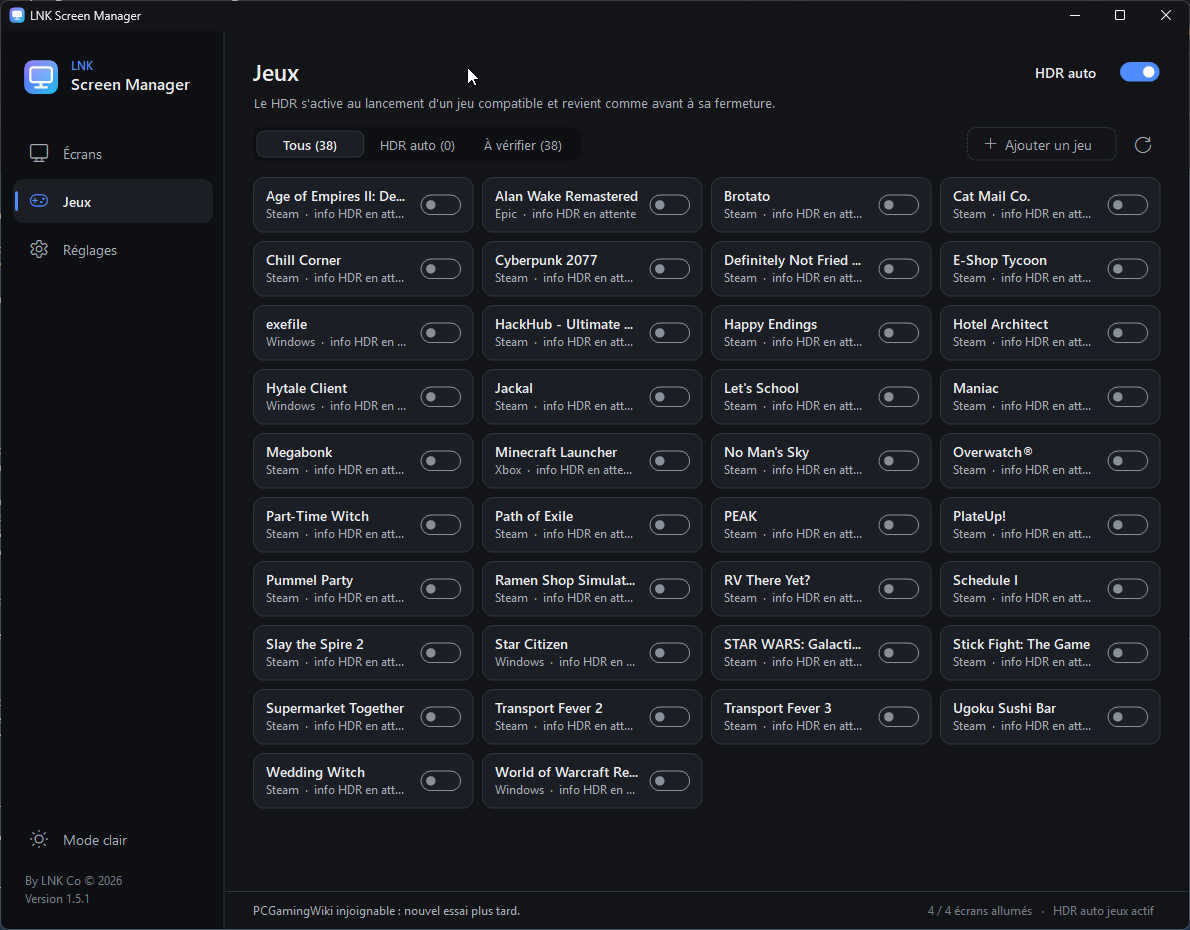
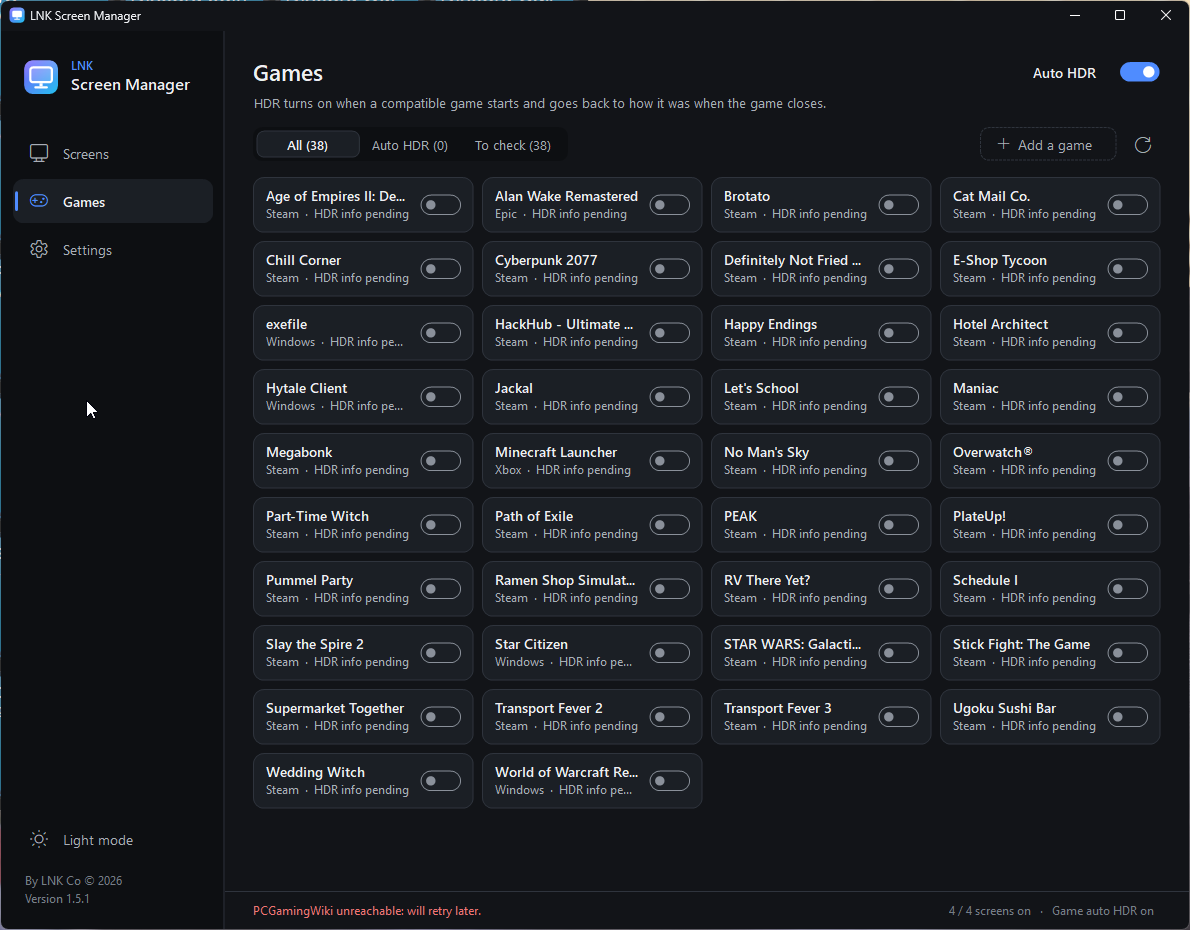
1.5.2 : jeux Xbox dans tous les dossiers choisis dans l'appli Xbox, PCGamingWiki sans blocage (429), journal de détection
- Xbox / PC Game Pass : lit le fichier .GamingRoot de chaque disque (dossier choisi dans l'appli Xbox), plus seulement X:\XboxGames
- PCGamingWiki : une requête par seconde au plus, pause et nouvel essai sur erreur 429, moins de requêtes par jeu, nouvel essai automatique 15 min après un échec
- hdr-auto.log : jeux détectés par boutique, dossiers Xbox et résultat de la recherche des infos HDR
- README : captures en anglais

diff --git a/src/Games.cs b/src/Games.cs
@@ -58,7 +58,7 @@ namespace LnkScreenManager
     {
         static readonly object sync = new object();
         static List<Game> list;
-        const string UA = "LNK-Screen-Manager/1.2 (+HDR auto)";
+        static string UA { get { return "LNK-Screen-Manager/" + Brand.Version + " (+HDR auto)"; } }
         public static string LastError;
         static string FilePath { get { return AppData.File("games.txt"); } }
 
@@ -80,6 +80,13 @@ namespace LnkScreenManager
                 Game s;
                 if (saved.TryGetValue(g.Key, out s)) { g.User = s.User; g.Wiki = s.Wiki; g.Manual = s.Manual || g.Manual; }
             }
+            try
+            {
+                HdrLog.Write(string.Format("Jeux détectés : {0} ({1}). Dossiers Xbox : {2}.", res.Count,
+                    string.Join(", ", res.GroupBy(g => g.Source).OrderByDescending(x => x.Count()).Select(x => x.Key + " " + x.Count())),
+                    string.Join(", ", XboxRoots().Where(Directory.Exists).DefaultIfEmpty("aucun"))));
+            }
+            catch { }
             return res.OrderBy(g => g.Name, StringComparer.CurrentCultureIgnoreCase).ToList();
         }
 
@@ -184,8 +191,37 @@ namespace LnkScreenManager
             catch { }
         }
 
-        /// Jeux Xbox / PC Game Pass : dossiers XboxGames de chaque disque (fichier MicrosoftGame.config).
-        public static List<Game> Xbox() { return Xbox(DriveInfo.GetDrives().Where(d => d.DriveType == DriveType.Fixed && d.IsReady).Select(d => Path.Combine(d.RootDirectory.FullName, "XboxGames"))); }
+        /// Jeux Xbox / PC Game Pass (fichier MicrosoftGame.config dans le dossier de chaque jeu).
+        public static List<Game> Xbox() { return Xbox(XboxRoots()); }
+
+        /// Dossiers de jeux Xbox. L'appli Xbox laisse le choix du dossier sur chaque disque et l'enregistre
+        /// dans le fichier cache « .GamingRoot » a la racine du disque : en-tete "RGBX", un entier, puis
+        /// les chemins (relatifs au disque) en UTF-16 termines par un zero. XboxGames est le dossier par defaut.
+        public static List<string> XboxRoots()
+        {
+            var res = new List<string>();
+            foreach (var d in DriveInfo.GetDrives())
+            {
+                try
+                {
+                    if (d.DriveType != DriveType.Fixed || !d.IsReady) continue;
+                    string root = d.RootDirectory.FullName;
+                    res.Add(Path.Combine(root, "XboxGames"));
+                    string f = Path.Combine(root, ".GamingRoot");
+                    if (!File.Exists(f)) continue;
+                    byte[] b = File.ReadAllBytes(f);
+                    if (b.Length < 10 || b.Length > 65536 || b[0] != 'R' || b[1] != 'G' || b[2] != 'B' || b[3] != 'X') continue;
+                    foreach (var part in Encoding.Unicode.GetString(b, 8, (b.Length - 8) & ~1).Split('\0'))
+                    {
+                        string rel = part.Trim();
+                        if (rel.Length == 0 || rel.IndexOfAny(Path.GetInvalidPathChars()) >= 0) continue;
+                        res.Add(Path.Combine(root, rel.TrimStart('\\', '/')));
+                    }
+                }
+                catch { }
+            }
+            return res.Distinct(StringComparer.OrdinalIgnoreCase).ToList();
+        }
 
         public static List<Game> Xbox(IEnumerable<string> roots)
         {
@@ -509,8 +545,11 @@ namespace LnkScreenManager
                 if (w == null) { offline = true; break; } // pas de reseau : on reessaiera plus tard
                 g.Wiki = w; n++;
                 Save();
-                Thread.Sleep(200);
             }
+            if (todo.Count > 0)
+                HdrLog.Write(offline
+                    ? string.Format("Infos HDR : {0} / {1} jeux consultés, puis arrêt ({2}). Nouvel essai plus tard.", n, todo.Count, LastError)
+                    : string.Format("Infos HDR : {0} jeux consultés sur PCGamingWiki.", n));
             return n;
         }
 
@@ -520,10 +559,8 @@ namespace LnkScreenManager
             try
             {
                 // 1) redirection officielle identifiant Steam -> page du jeu
-                var req = (HttpWebRequest)WebRequest.Create("https://www.pcgamingwiki.com/api/appid.php?appid=" + appId);
-                req.UserAgent = UA; req.AllowAutoRedirect = false; req.Timeout = 10000;
                 string page = null;
-                using (var r = (HttpWebResponse)req.GetResponse())
+                using (var r = Send("https://www.pcgamingwiki.com/api/appid.php?appid=" + appId, false))
                 {
                     string loc = r.Headers["Location"];
                     int i = loc == null ? -1 : loc.IndexOf("/wiki/", StringComparison.Ordinal);
@@ -536,9 +573,14 @@ namespace LnkScreenManager
                 string clean = Regex.Replace(name ?? "", "[™®©]", "").Trim();
                 if (clean.Length == 0) return "unknown";
                 string json = Get("https://www.pcgamingwiki.com/w/api.php?action=query&list=search&srwhat=title&srlimit=5&format=json&srsearch=" + Uri.EscapeDataString(clean));
-                foreach (Match m in Regex.Matches(json, "\"title\":\"((?:[^\"\\\\]|\\\\.)*)\""))
+                var titles = Regex.Matches(json, "\"title\":\"((?:[^\"\\\\]|\\\\.)*)\"").Cast<Match>().Select(m => Regex.Unescape(m.Groups[1].Value)).ToList();
+                // pour menager PCGamingWiki : seulement le titre identique, sinon le premier resultat
+                string key = TitleKey(clean);
+                var check = titles.Where(t => TitleKey(t) == key).ToList();
+                if (check.Count == 0) check = titles.Take(1).ToList();
+                foreach (var t in check)
                 {
-                    string w = PageHdr(Regex.Unescape(m.Groups[1].Value), appId);
+                    string w = PageHdr(t, appId);
                     if (w != null) return w;
                 }
                 return "unknown";
@@ -549,7 +591,7 @@ namespace LnkScreenManager
                 var resp = ex.Response as HttpWebResponse;
                 return resp != null && (int)resp.StatusCode == 404 ? "unknown" : null;
             }
-            catch (Exception ex) { LastError = ex.ToString(); return null; }
+            catch (Exception ex) { LastError = ex.Message; return null; }
         }
 
         /// Jeux hors Steam : recherche par nom, en ne gardant qu'un titre IDENTIQUE (sinon « inconnu »,
@@ -577,7 +619,7 @@ namespace LnkScreenManager
                 var resp = ex.Response as HttpWebResponse;
                 return resp != null && (int)resp.StatusCode == 404 ? "unknown" : null;
             }
-            catch (Exception ex) { LastError = ex.ToString(); return null; }
+            catch (Exception ex) { LastError = ex.Message; return null; }
         }
 
         /// Titre normalise pour comparaison : minuscules, sans symboles ni ponctuation.
@@ -604,10 +646,37 @@ namespace LnkScreenManager
 
         static string Get(string url)
         {
-            var req = (HttpWebRequest)WebRequest.Create(url);
-            req.UserAgent = UA; req.Timeout = 10000;
-            using (var r = req.GetResponse())
+            using (var r = Send(url, true))
             using (var sr = new StreamReader(r.GetResponseStream(), Encoding.UTF8)) return sr.ReadToEnd();
+        }
+
+        /// PCGamingWiki limite le debit (erreur 429 « Too Many Requests ») : au plus une requete par seconde,
+        /// et en cas de 429 on attend le delai demande (Retry-After, sinon 15 puis 30 s) avant de reessayer.
+        const int RequestGapMs = 1000;
+        static DateTime nextRequest = DateTime.MinValue;
+
+        static HttpWebResponse Send(string url, bool redirect)
+        {
+            for (int attempt = 0; ; attempt++)
+            {
+                int wait = (int)(nextRequest - DateTime.UtcNow).TotalMilliseconds;
+                if (wait > 0) Thread.Sleep(wait);
+                nextRequest = DateTime.UtcNow.AddMilliseconds(RequestGapMs);
+                var req = (HttpWebRequest)WebRequest.Create(url);
+                req.UserAgent = UA; req.AllowAutoRedirect = redirect; req.Timeout = 15000;
+                try { return (HttpWebResponse)req.GetResponse(); }
+                catch (WebException ex)
+                {
+                    var r = ex.Response as HttpWebResponse;
+                    if (r == null || (int)r.StatusCode != 429 || attempt >= 2) throw;
+                    int s;
+                    if (!int.TryParse(r.Headers["Retry-After"], out s)) s = 15 << attempt;
+                    r.Close();
+                    s = Math.Max(5, Math.Min(s, 60));
+                    HdrLog.Write(string.Format("PCGamingWiki : trop de requêtes (429), pause de {0} s.", s));
+                    Thread.Sleep(s * 1000);
+                }
+            }
         }
     }
 

diff --git a/src/App.cs b/src/App.cs
@@ -23,8 +23,8 @@ using Microsoft.Win32;
 [assembly: AssemblyCompany("LNK Co")]
 [assembly: AssemblyProduct("LNK Screen Manager")]
 [assembly: AssemblyCopyright("© 2026 LNK Co")]
-[assembly: AssemblyVersion("1.5.1.0")]
-[assembly: AssemblyFileVersion("1.5.1.0")]
+[assembly: AssemblyVersion("1.5.2.0")]
+[assembly: AssemblyFileVersion("1.5.2.0")]
 
 namespace LnkScreenManager
 {
@@ -114,6 +114,7 @@ namespace LnkScreenManager
         MainForm form;
         DateTime lastRefresh = DateTime.MinValue;
         bool lookingUp;
+        System.Threading.Timer retryLookup;
 
         public List<Monitor> Mons = new List<Monitor>();
         public List<Profile> ProfileList = new List<Profile>();
@@ -416,6 +417,9 @@ namespace LnkScreenManager
                     lookingUp = false; LookupTotal = 0;
                     if (n > 0) GamesChanged();
                     SetStatus(offline ? L.T("PCGamingWiki injoignable : nouvel essai plus tard.") : L.T("Infos HDR à jour : {0} jeu(x) consulté(s) sur PCGamingWiki.", n), offline && announce);
+                    if (retryLookup != null) { retryLookup.Dispose(); retryLookup = null; }
+                    if (offline) // nouvel essai automatique dans 15 min (les infos deja trouvees sont gardees)
+                        retryLookup = new System.Threading.Timer(_ => Post(() => LookupGames(false)), null, 15 * 60 * 1000, Timeout.Infinite);
                     if (form == null) Win.Trim();
                 });
             }) { IsBackground = true, Priority = ThreadPriority.BelowNormal }.Start();

diff --git a/src/Ui.cs b/src/Ui.cs
@@ -17,7 +17,7 @@ namespace LnkScreenManager
     {
         public const string Name = "LNK Screen Manager";
         public const string By = "By LNK Co © 2026";
-        public const string Version = "1.5.1";
+        public const string Version = "1.5.2";
     }
 
     // ------------------------------------------------------------------ Theme
